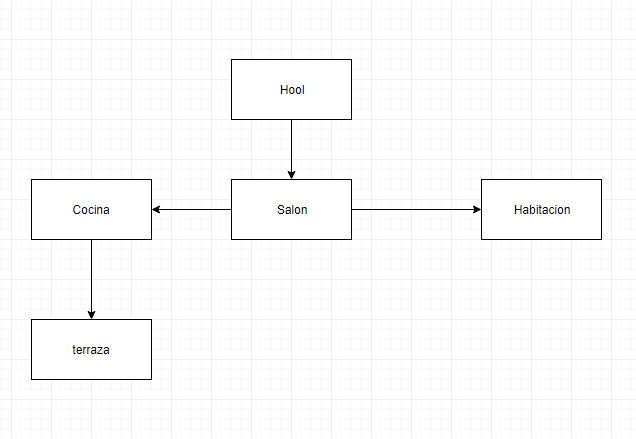
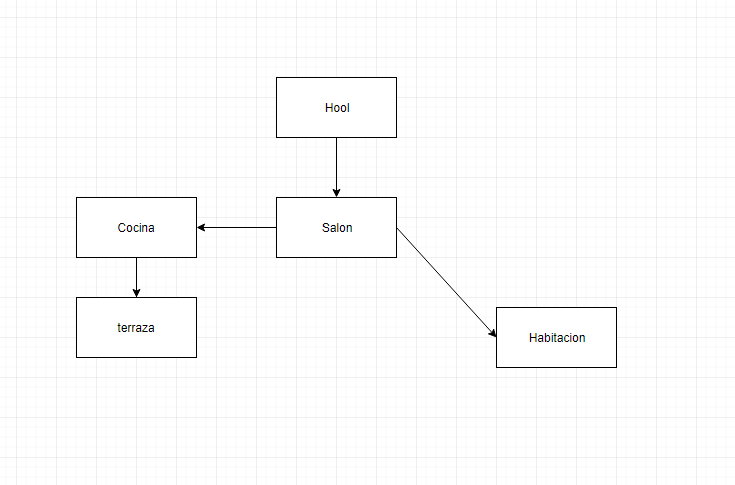
04.Modificada las clases para obtener direccion surEste

diff --git a/Game.java b/Game.java
@@ -44,11 +44,11 @@ public class Game
         terraza = new Room("in the  terraza");
         
         // initialise room exits
-        hall.setExits(null, null, salon, null);
-        salon.setExits(null, cocina, hall, habitacion);
-        cocina.setExits(null, null, terraza, salon);
-        habitacion.setExits(null, salon,null , null);
-        terraza.setExits(cocina, null, null, null);
+        hall.setExits(null, null, null, salon, null);
+        salon.setExits(hall, null, habitacion, null, cocina);
+        cocina.setExits(null, salon, null, terraza, null);
+        habitacion.setExits(null, null, null, null , null);
+        terraza.setExits(cocina, null, null, null, null);
 
         currentRoom = hall;  // start game hall
     }
@@ -152,6 +152,9 @@ public class Game
         if(direction.equals("east")) {
             nextRoom = currentRoom.eastExit;
         }
+        if(direction.equals("southEast")) {
+            nextRoom = currentRoom.southEastExit;
+        }
         if(direction.equals("south")) {
             nextRoom = currentRoom.southExit;
         }
@@ -193,6 +196,9 @@ public class Game
         }
         if(currentRoom.eastExit != null) {
             System.out.print("east ");
+        }
+        if(currentRoom.southEastExit != null) {
+            System.out.print("southEast ");
         }
         if(currentRoom.southExit != null) {
             System.out.print("south ");

diff --git a/Room.java b/Room.java
@@ -17,6 +17,7 @@ public class Room
     public String description;
     public Room northExit;
     public Room southExit;
+    public Room southEastExit;
     public Room eastExit;
     public Room westExit;
 
@@ -39,12 +40,14 @@ public class Room
      * @param south The south exit.
      * @param west The west exit.
      */
-    public void setExits(Room north, Room east, Room south, Room west) 
+    public void setExits(Room north, Room east,Room southEast, Room south, Room west) 
     {
         if(north != null)
             northExit = north;
         if(east != null)
             eastExit = east;
+        if(southEast != null)
+            southEastExit = southEast;
         if(south != null)
             southExit = south;
         if(west != null)
